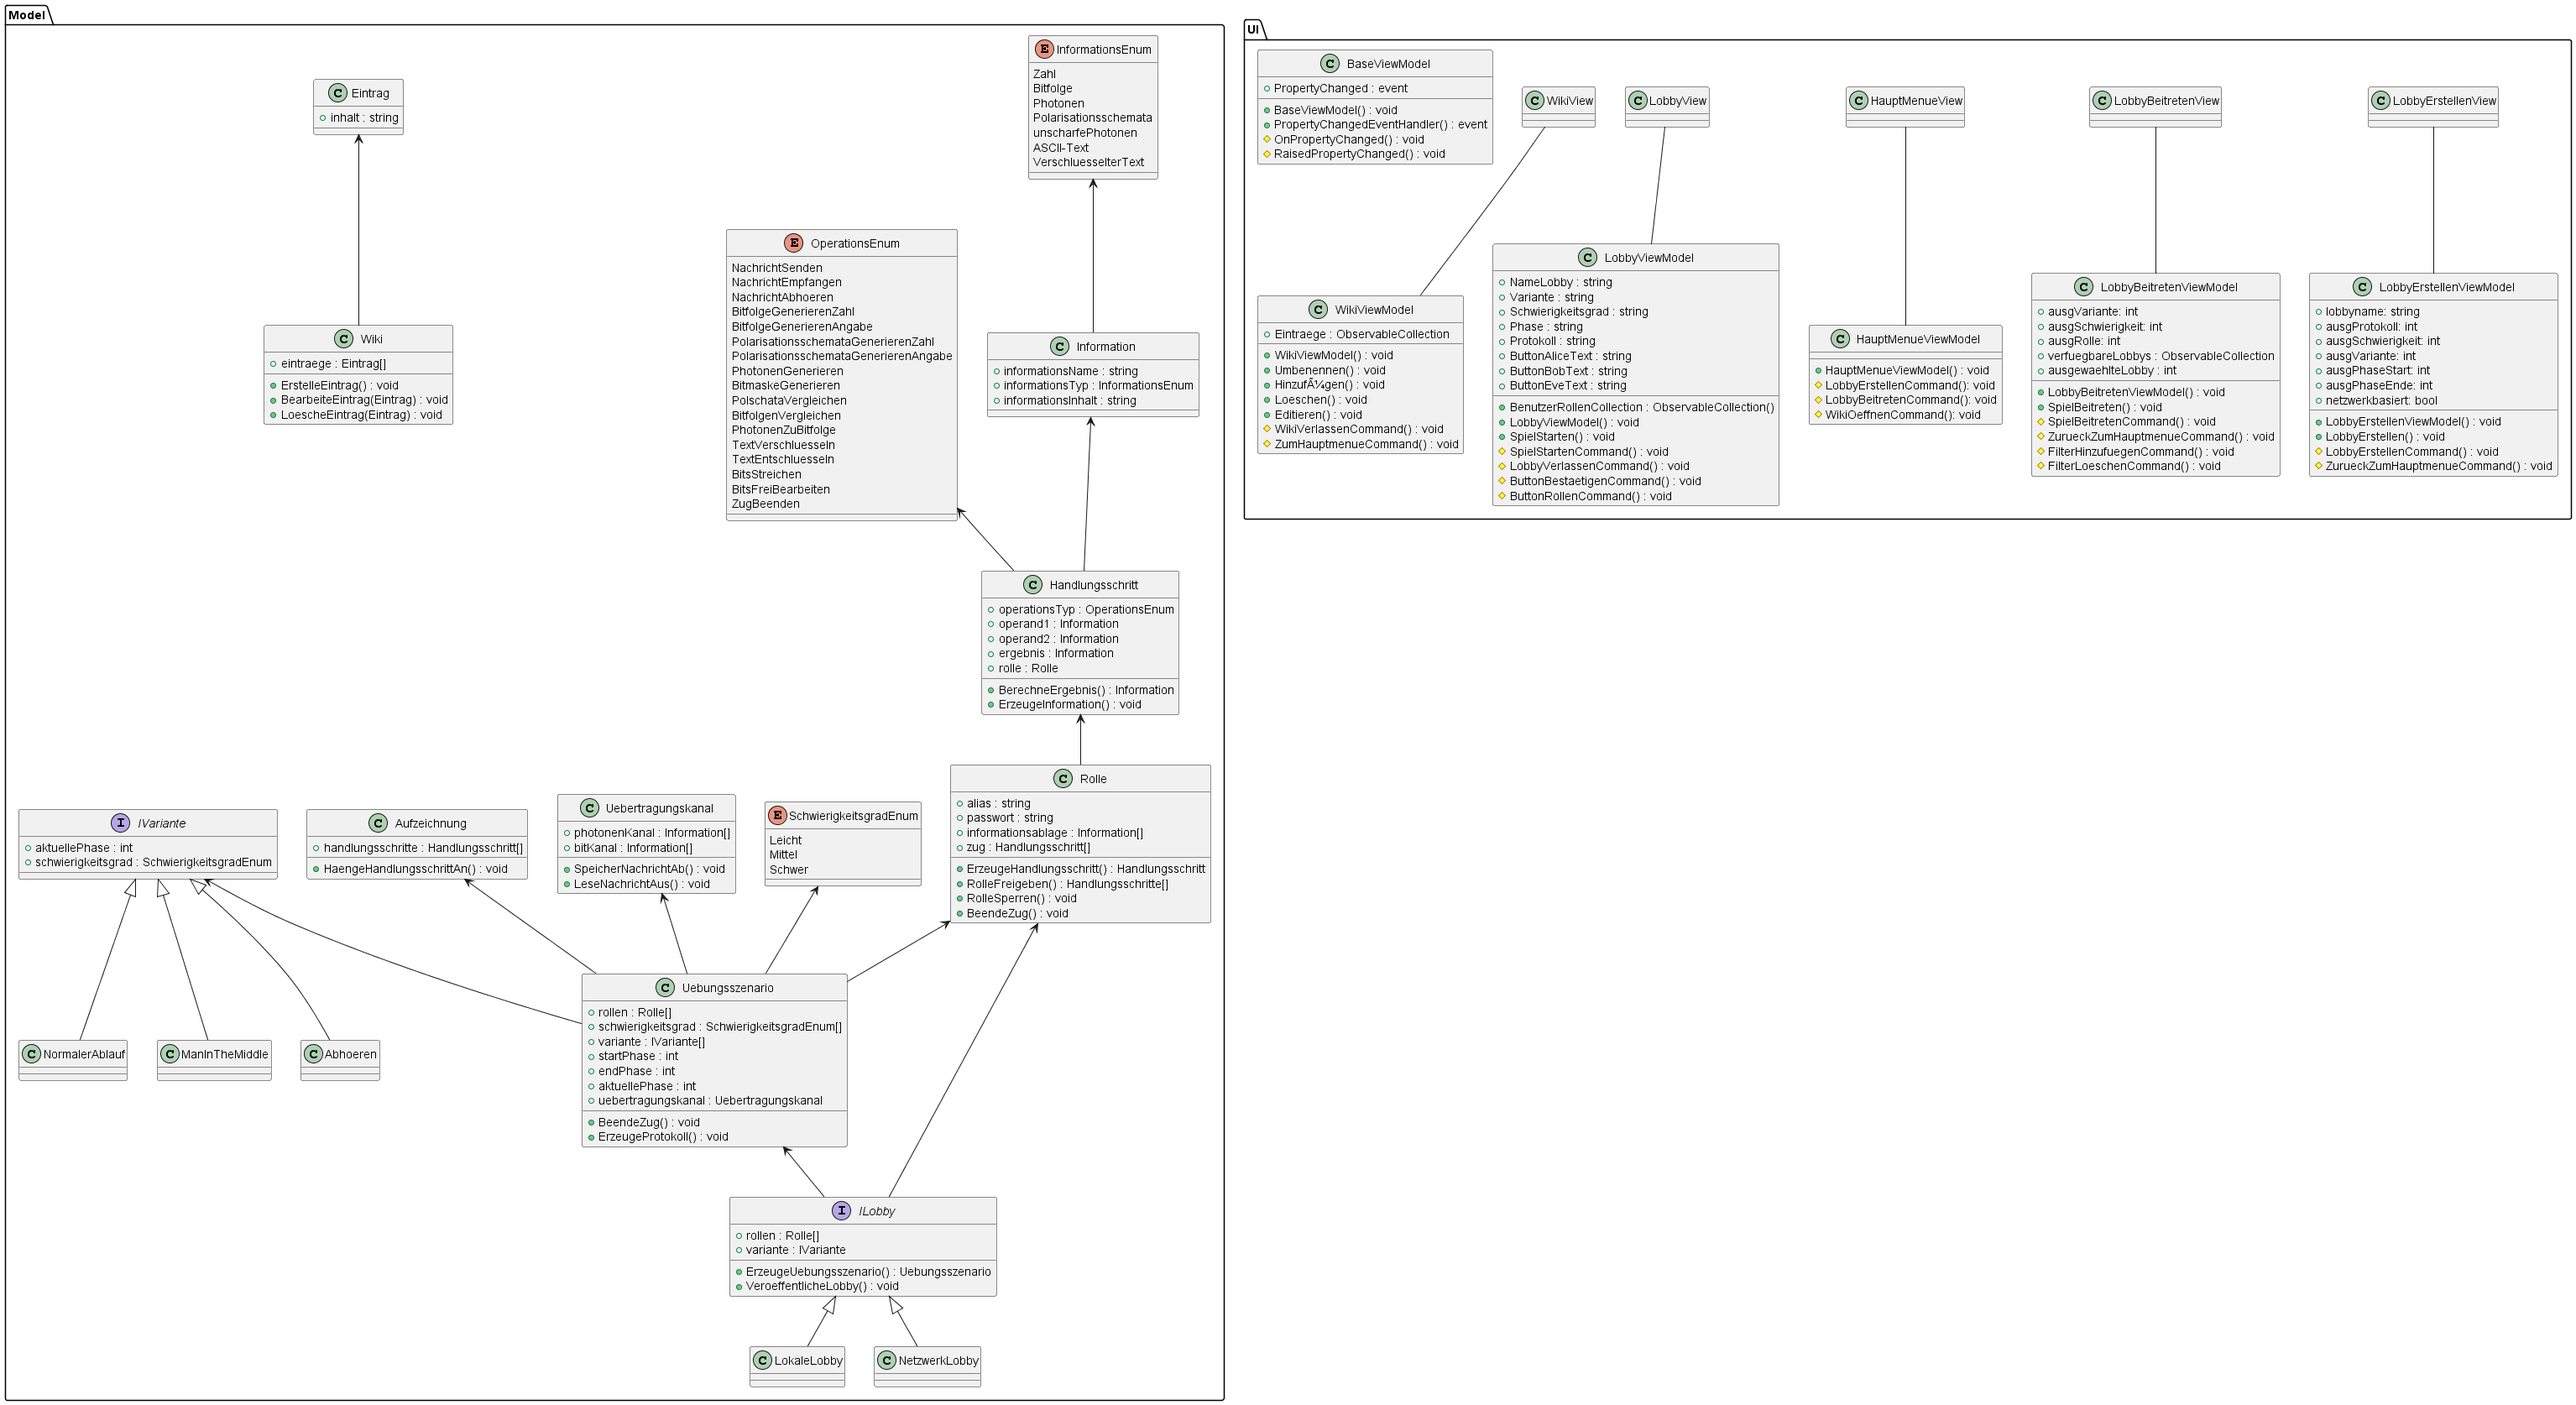
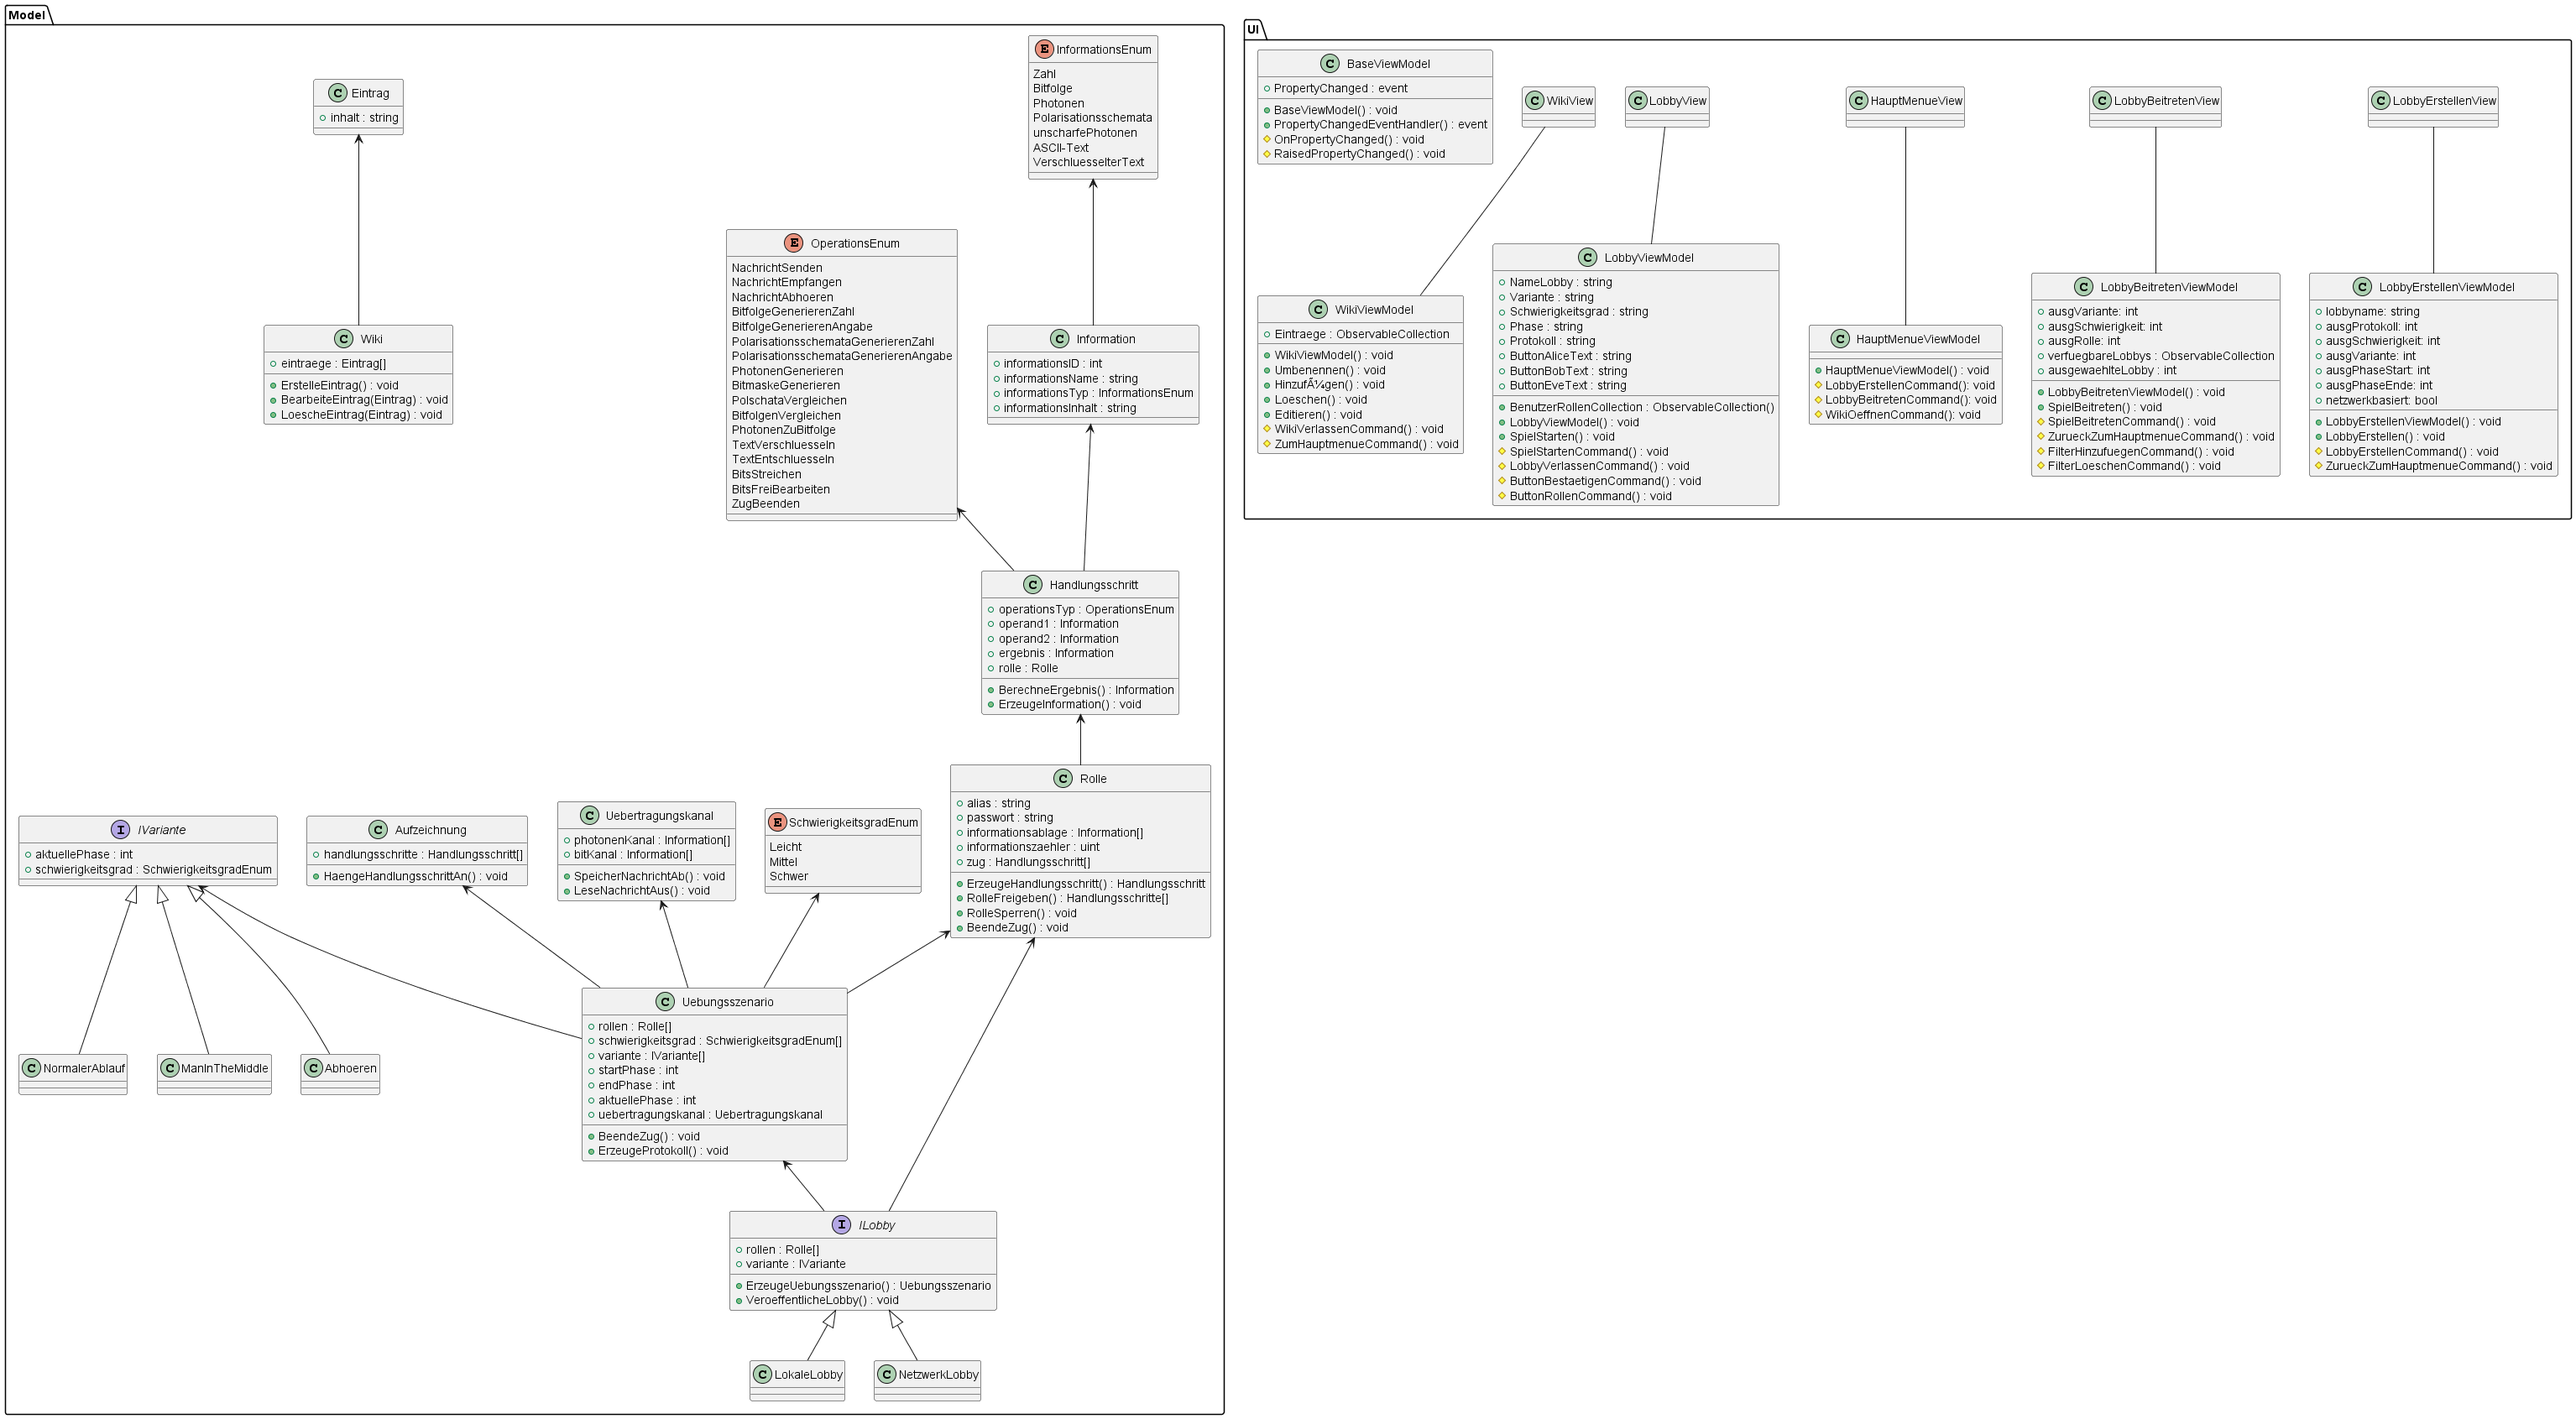
Implementieren Informationen und Uebertragungskanal

diff --git a/03_Implementierung/quaKrypto/quaKrypto/Models/Classes/Uebertragungskanal.cs b/03_Implementierung/quaKrypto/quaKrypto/Models/Classes/Uebertragungskanal.cs
@@ -1,0 +1,71 @@
+using System;
+using System.Collections.Generic;
+using System.Linq;
+using System.Text;
+using System.Threading.Tasks;
+
+namespace quaKrypto.Models.Classes
+{
+    internal class Uebertragungskanal
+    {
+        //Eventuell noch zu einer ObservableCollection machen
+        private List<Information> photonenKanal;
+        private List<Information> bitKanal;
+
+        Uebertragungskanal()
+        {
+            photonenKanal = new List<Information>();
+            bitKanal = new List<Information>();
+        }
+
+        void SpeicherNachrichtAb(Information information)
+        {
+            if(information.informationsTyp == Enums.InformationsEnum.unscharfePhotonen)
+            {
+                photonenKanal.Append(information);
+            }
+            else if(information.informationsTyp != Enums.InformationsEnum.photonen)
+            {
+                bitKanal.Append(information);
+            }
+        }
+
+        List<Information>? LeseKanalAus(Enums.KanalEnum kanal)
+        {
+            if(kanal == Enums.KanalEnum.photonenKanal)
+            {
+                return photonenKanal;
+            }
+            else if(kanal == Enums.KanalEnum.bitKanal)
+            {
+                return bitKanal;
+            }
+            else return null;
+        }
+
+        void LoescheNachricht(Enums.KanalEnum kanal, uint informationsID)
+        {
+            if(kanal == Enums.KanalEnum.photonenKanal)
+            {
+                for(int i = 0; i < photonenKanal.Count; i++)
+                {
+                    if (photonenKanal[i].informationsID == informationsID)
+                    {
+                        photonenKanal.RemoveAt(i);
+                    }
+                }
+            }
+            else if(kanal == Enums.KanalEnum.bitKanal)
+            {
+                for (int i = 0; i < bitKanal.Count; i++)
+                {
+                    if (bitKanal[i].informationsID == informationsID)
+                    {
+                        bitKanal.RemoveAt(i);
+                    }
+                }
+            }
+
+        }
+    }
+}

diff --git a/03_Implementierung/quaKrypto/quaKrypto/Models/Enums/OperationsEnum.cs b/03_Implementierung/quaKrypto/quaKrypto/Models/Enums/OperationsEnum.cs
@@ -1,0 +1,29 @@
+using System;
+using System.Collections.Generic;
+using System.Linq;
+using System.Text;
+using System.Threading.Tasks;
+
+namespace quaKrypto.Models.Enums
+{
+    internal enum OperationsEnum
+    {
+		nachrichtSenden,
+		nachrichtEmpfangen,
+		nachrichtAbhoeren,
+		bitfolgeGenerierenZahl,
+		bitfolgeGenerierenAngabe,
+		polarisationsschemataGenerierenZahl,
+		polarisationsschemataGenerierenAngabe,
+		photonenGenerieren,
+		bitmaskeGenerieren,
+		polschataVergleichen,
+		bitfolgenVergleichen,
+		photonenZuBitfolge,
+		textVerschluesseln,
+		textEntschluesseln,
+		bitsStreichen,
+		bitsFreiBearbeiten,
+		zugBeenden
+	}
+}

diff --git a/03_Implementierung/quaKrypto/quaKrypto/Models/Classes/Information.cs b/03_Implementierung/quaKrypto/quaKrypto/Models/Classes/Information.cs
@@ -1,0 +1,19 @@
+using System;
+using System.Collections.Generic;
+using System.Linq;
+using System.Text;
+using System.Threading.Tasks;
+
+namespace quaKrypto.Models.Classes
+{
+    internal class Information
+    {
+        private int informationsID;
+       
+        public int InformationsID 
+        {
+            get { return informationsID; }
+            init { informationsID = value; }
+        }
+    }
+}

diff --git a/03_Implementierung/quaKrypto/quaKrypto/Models/Enums/InformationsEnum.cs b/03_Implementierung/quaKrypto/quaKrypto/Models/Enums/InformationsEnum.cs
@@ -1,0 +1,19 @@
+using System;
+using System.Collections.Generic;
+using System.Linq;
+using System.Text;
+using System.Threading.Tasks;
+
+namespace quaKrypto.Models.Enums
+{
+    internal enum InformationsEnum
+    {
+		zahl,
+		bitfolge,
+		photonen,
+		polarisationsschemata,
+		unscharfePhotonen,
+		asciiText,
+		verschluesselterText
+	}
+}

diff --git a/03_Implementierung/quaKrypto/quaKrypto/Models/Enums/SchwierigkeitsgradEnum.cs b/03_Implementierung/quaKrypto/quaKrypto/Models/Enums/SchwierigkeitsgradEnum.cs
@@ -1,0 +1,15 @@
+using System;
+using System.Collections.Generic;
+using System.Linq;
+using System.Text;
+using System.Threading.Tasks;
+
+namespace quaKrypto.Models.Enums
+{
+    internal enum SchwierigkeitsgradEnum
+    {
+        leicht,
+        mittel,
+        schwer
+    }
+}

diff --git a/03_Implementierung/quaKrypto/quaKrypto/Models/Enums/KanalEnum.cs b/03_Implementierung/quaKrypto/quaKrypto/Models/Enums/KanalEnum.cs
@@ -1,0 +1,14 @@
+using System;
+using System.Collections.Generic;
+using System.Linq;
+using System.Text;
+using System.Threading.Tasks;
+
+namespace quaKrypto.Models.Enums
+{
+    internal enum KanalEnum
+    {
+        photonenKanal,
+        bitKanal
+    }
+}

diff --git a/03_Implementierung/quaKrypto/quaKrypto/Models/Classes/Handlungsschritt.cs b/03_Implementierung/quaKrypto/quaKrypto/Models/Classes/Handlungsschritt.cs
@@ -1,0 +1,12 @@
+using System;
+using System.Collections.Generic;
+using System.Linq;
+using System.Text;
+using System.Threading.Tasks;
+
+namespace quaKrypto.Models.Classes
+{
+    internal class Handlungsschritt
+    {
+    }
+}

diff --git a/03_Implementierung/quaKrypto/quaKrypto/Models/Interfaces/IVariante.cs b/03_Implementierung/quaKrypto/quaKrypto/Models/Interfaces/IVariante.cs
@@ -1,0 +1,12 @@
+using System;
+using System.Collections.Generic;
+using System.Linq;
+using System.Text;
+using System.Threading.Tasks;
+
+namespace quaKrypto.Models.Interfaces
+{
+    internal interface IVariante
+    {
+    }
+}

diff --git a/03_Implementierung/quaKrypto/quaKrypto/Models/Classes/Uebungsszenario.cs b/03_Implementierung/quaKrypto/quaKrypto/Models/Classes/Uebungsszenario.cs
@@ -1,0 +1,12 @@
+using System;
+using System.Collections.Generic;
+using System.Linq;
+using System.Text;
+using System.Threading.Tasks;
+
+namespace quaKrypto.Models.Classes
+{
+    internal class Uebungsszenario
+    {
+    }
+}

diff --git a/03_Implementierung/quaKrypto/quaKrypto/Models/Classes/ManInTheMiddle.cs b/03_Implementierung/quaKrypto/quaKrypto/Models/Classes/ManInTheMiddle.cs
@@ -1,0 +1,12 @@
+using System;
+using System.Collections.Generic;
+using System.Linq;
+using System.Text;
+using System.Threading.Tasks;
+
+namespace quaKrypto.Models.Classes
+{
+    internal class ManInTheMiddle
+    {
+    }
+}

diff --git a/03_Implementierung/quaKrypto/quaKrypto/Models/Classes/NormalerAblauf.cs b/03_Implementierung/quaKrypto/quaKrypto/Models/Classes/NormalerAblauf.cs
@@ -1,0 +1,12 @@
+using System;
+using System.Collections.Generic;
+using System.Linq;
+using System.Text;
+using System.Threading.Tasks;
+
+namespace quaKrypto.Models.Classes
+{
+    internal class NormalerAblauf
+    {
+    }
+}

diff --git a/03_Implementierung/quaKrypto/quaKrypto/Models/Classes/NetzwerkLobby.cs b/03_Implementierung/quaKrypto/quaKrypto/Models/Classes/NetzwerkLobby.cs
@@ -1,0 +1,12 @@
+using System;
+using System.Collections.Generic;
+using System.Linq;
+using System.Text;
+using System.Threading.Tasks;
+
+namespace quaKrypto.Models.Classes
+{
+    internal class NetzwerkLobby
+    {
+    }
+}
